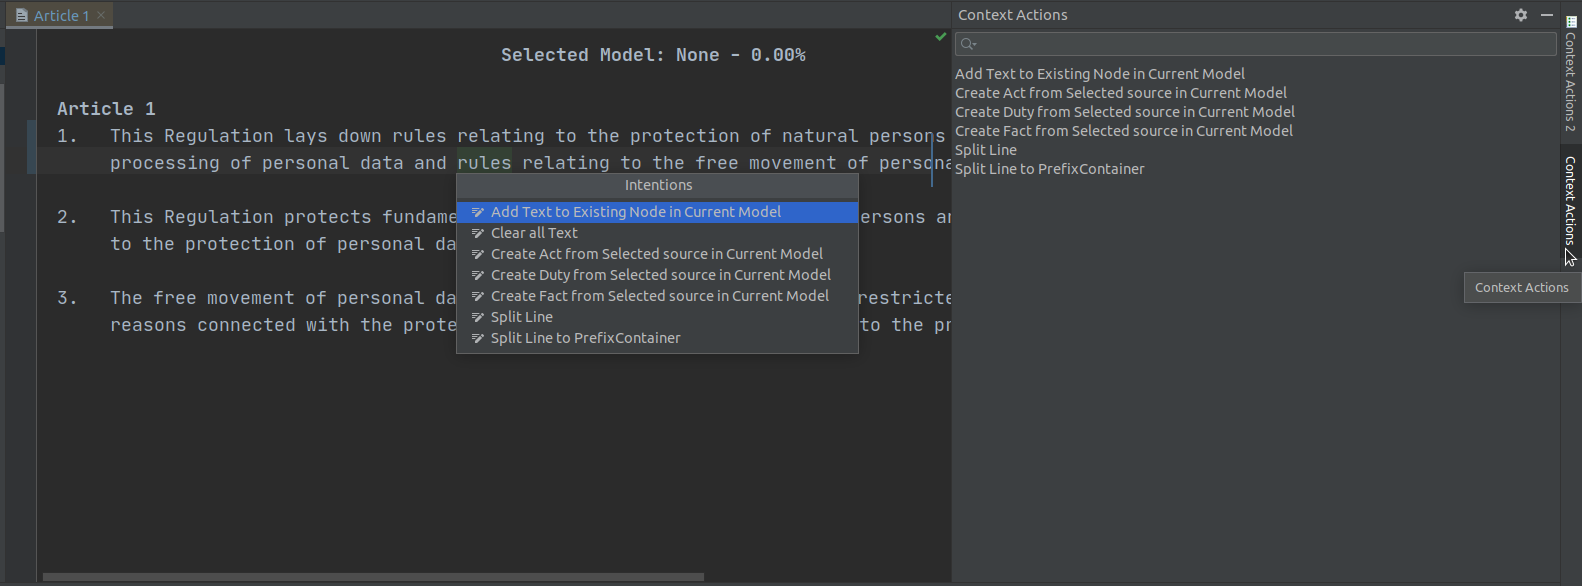
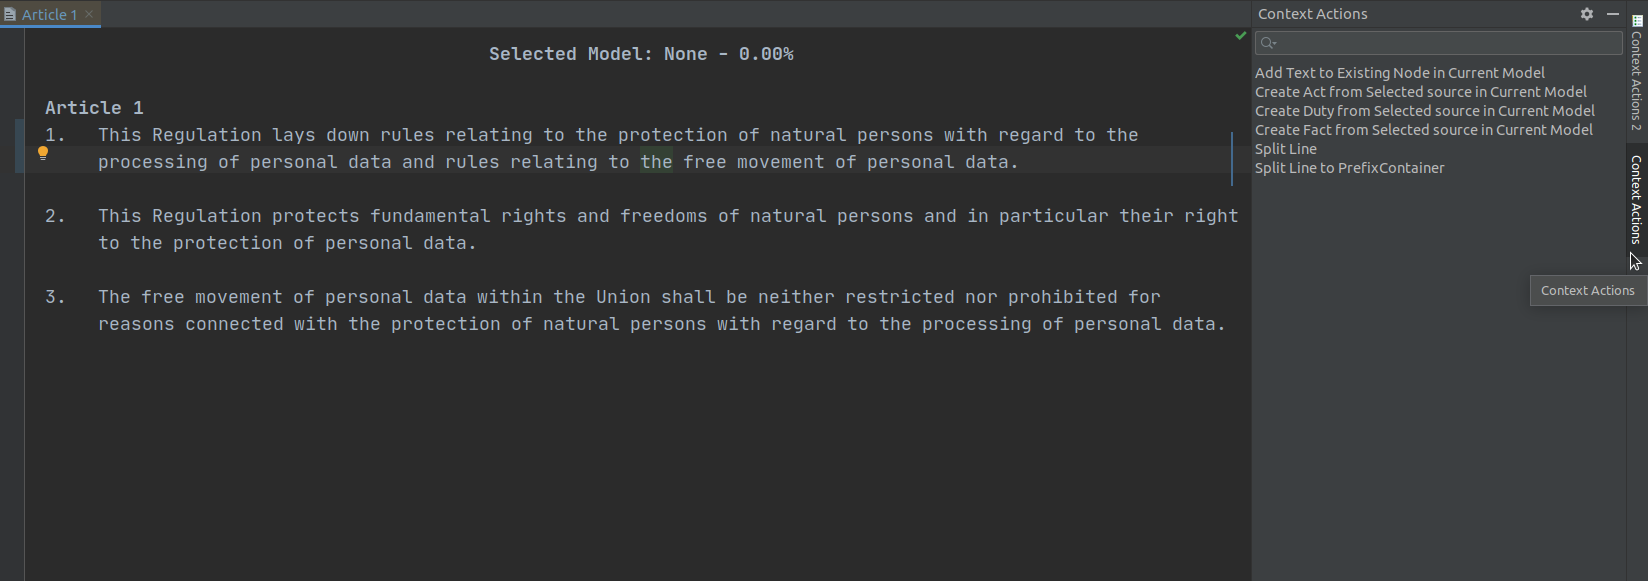
Removed false statement

diff --git a/docs/USER_GUIDE.md b/docs/USER_GUIDE.md
@@ -411,8 +411,7 @@ To assign dates:
 ## Context Actions
 A lot of functions are accesible via intentions. These can be seen whilst pressing `Alt+Enter` on a selected node, but also via the context actions tab in the right-hand corner. The advantage of the Context Actions tab is that this tab can remain open while you are making interpretations. As soon as you select a node which has intentions the Context Actions tab will show them, removing the need of pressing `Alt+Enter` before you can see them.  
 
-To open the Context Actions tab `Click` on the `Context Actions` tab in the right hand corner.
-As can been seen in the image below the intentions and the Context Actions are exactly the same.  
+To open the Context Actions tab `Click` on the `Context Actions` tab in the right hand corner. 
 ![Context Actions](images/context_actions.png)
 
 
